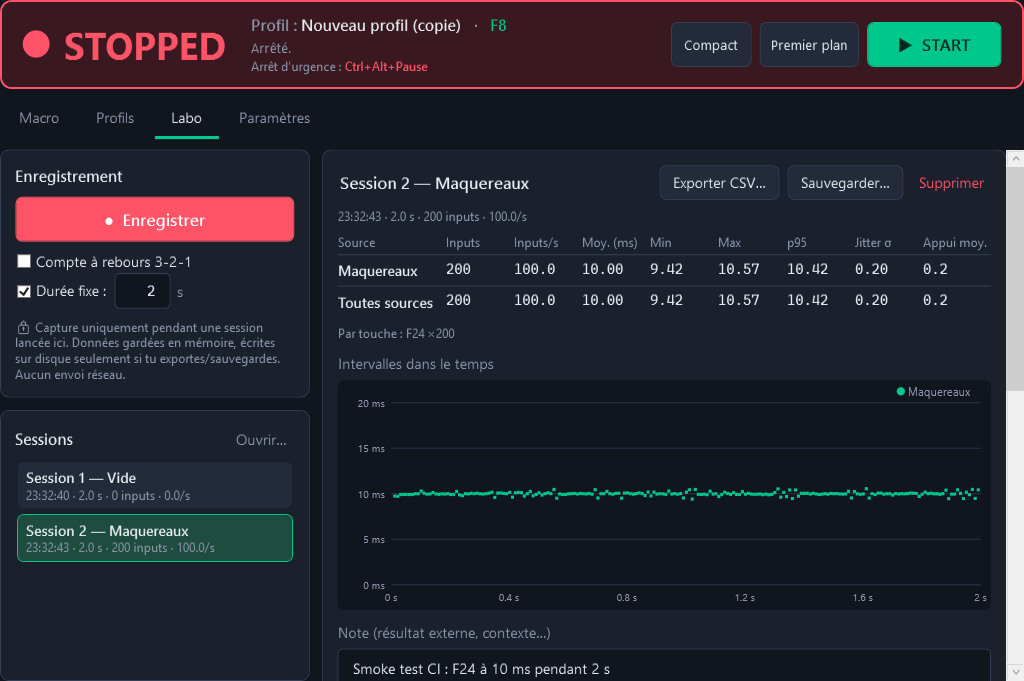
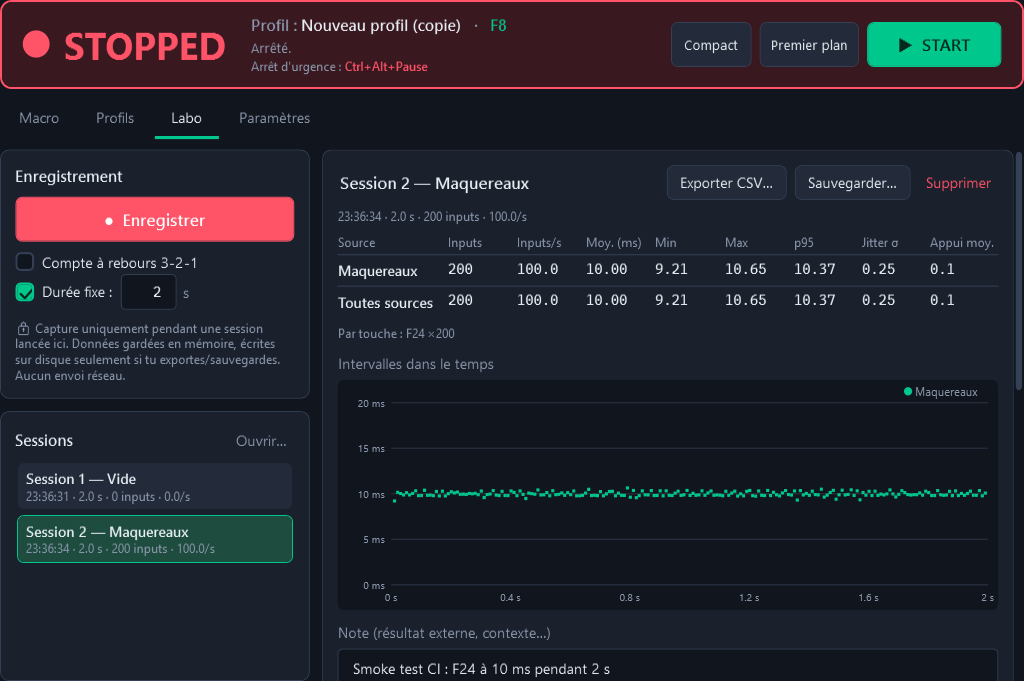
release: Maquereaux v1.0.0 🐟
Les 4 jalons du cahier des charges livrés, testés en CI Windows
(Core 98 % lignes / 91 % branches), documentés (README, décisions,
améliorations, tests manuels). Captures d'écran finales.

Claude-Session: https://claude.ai/code/session_01CeVhhnFbkzGmwoDd9wn4FU

diff --git a/CHANGELOG.md b/CHANGELOG.md
@@ -3,6 +3,24 @@
 Toutes les évolutions notables de Maquereaux. Format inspiré de [Keep a Changelog](https://keepachangelog.com/fr/1.1.0/),
 versions selon [SemVer](https://semver.org/lang/fr/).
 
+## [1.0.0] - 2026-10-24
+
+🐟 Première version stable : les 4 jalons du cahier des charges (J1 moteur, J2 timer haute précision, J3 profils,
+J4 labo) sont livrés, testés en CI sur Windows et documentés.
+
+### Ajouté
+- Les modifications du profil **en cours d'exécution** sont appliquées à chaud (relance transparente du moteur, anti-rebond 300 ms).
+- Position et taille de la fenêtre mémorisées (ignorées si l'écran correspondant a disparu).
+- Cases à cocher, boutons radio et barres de défilement aux couleurs du thème.
+- README complet (installation, utilisation, captures, tableau des stratégies de timer, labo, limites connues),
+  `docs/TESTS_MANUELS.md`, `docs/SETUP_GITHUB.md`.
+
+### Qualité
+- ~200 tests unitaires sur `Maquereaux.Core` (couverture CI : **98 % des lignes, 91 % des branches**) et ~20 tests
+  d'intégration Windows sur `Maquereaux.Win32` (93 % des lignes) exécutés sur un vrai runner.
+- Smoke test de l'exe publié à chaque push : tous les onglets, moteur réel, édition à chaud, profils + persistance,
+  thème clair, mode compact, session du Labo à 10 ms, export CSV, captures d'écran.
+
 ## [0.4.0] - 2026-10-24
 
 ### Ajouté (J4 — labo de mesure)

diff --git a/README.md b/README.md
@@ -147,10 +147,11 @@ dotnet publish src/Maquereaux.App -c Release -p:PublishSingleFile=true -o publis
 publish/Maquereaux.exe --smoke-test                   # démarre, parcourt tout, se ferme (code 0 = OK)
 ```
 
-**Tests** : ~200 tests unitaires sur `Maquereaux.Core` (moteur, cadence absolue, key-up garanti, Cycle/Burst/Repeat,
+**Tests** : ~200 tests unitaires sur `Maquereaux.Core` (couverture **98 % des lignes, 91 % des branches**) (moteur, cadence absolue, key-up garanti, Cycle/Burst/Repeat,
 stats, persistance atomique, JSON corrompu, import/export, logique Maintenir, filtre de fenêtre, labo, CSV…) et ~20 tests
 d'intégration Windows exécutés en CI sur un vrai runner : `SendInput` → `RegisterHotKey`, hook bas niveau (flags injecté,
-signature, avaler une touche, pas d'auto-déclenchement), mesure 10 ms moteur → hook, timers haute résolution.
+signature, avaler une touche, pas d'auto-déclenchement), mesure 10 ms moteur → hook, timers haute résolution
+(couverture `Maquereaux.Win32` : 93 % des lignes).
 Les points non automatisables sont listés dans [`docs/TESTS_MANUELS.md`](docs/TESTS_MANUELS.md).
 
 **CI/CD** : chaque push lance build + tests + publication + smoke test de l'exe (avec captures d'écran) + benchmarks

diff --git a/CLAUDE.md b/CLAUDE.md
@@ -35,4 +35,13 @@ Sous le conteneur Claude : `export PATH=/root/.dotnet:$PATH` (SDK installé via 
 - [x] J2 — Timer haute précision (v0.2.0)
 - [x] J3 — Profils & activation (v0.3.0)
 - [x] J4 — Labo de mesure (v0.4.0)
-- [ ] Release v1.0.0 (polish + docs)
+- [x] Release v1.0.0 (polish + docs)
+
+## Points d'attention pour la suite
+- Toute fonctionnalité doit respecter le « Hors périmètre » (cahier des charges §2) : jamais d'humanisation des délais,
+  de masquage d'injection, de lecture d'écran, de réseau.
+- Threads : UI WPF / `MessageLoopThread` (hotkeys + hook, doit rester ultra réactif) / `SerialExecutor` (Start/Stop) /
+  thread moteur / thread de dispatch du hook. Ne jamais bloquer le thread de la boucle Win32.
+- Le moteur ne lit que des copies de profils (`ProfileRegistry`) ; l'UI publie à chaque modification.
+- Valider l'UI : pousser sur une branche → CI → artefact `screenshots` (smoke test) ; lire le rapport dans les logs du job.
+- Releases : bump `<Version>` + section CHANGELOG → push sur main (le proxy de dev refuse les push de tags).

diff --git a/docs/AMELIORATIONS.md b/docs/AMELIORATIONS.md
@@ -25,3 +25,6 @@ Chaque ajout reste dans l'esprit du projet et respecte la section « Hors périm
 | A-19 | Sauvegarde/rechargement de sessions `.mqsession.json` | Comparer avec une session d'un autre jour. |
 | A-20 | Indicateur ● REC aussi dans le bandeau principal | On sait qu'on est enregistré quel que soit l'onglet. |
 | A-21 | Nommage automatique des sessions (Manuel / Maquereaux / Mixte / Vide) | Comparaisons lisibles sans renommer. |
+| A-22 | Modifications du profil en cours appliquées à chaud | Plus besoin d'arrêter/relancer pour ajuster l'intervalle pendant un test. |
+| A-23 | Position/taille de fenêtre mémorisées (avec garde-fou multi-écran) | Confort ; pas de fenêtre « perdue » hors écran. |
+| A-24 | Contrôles (cases, radios, scrollbars) thémés | Cohérence visuelle en sombre comme en clair. |
